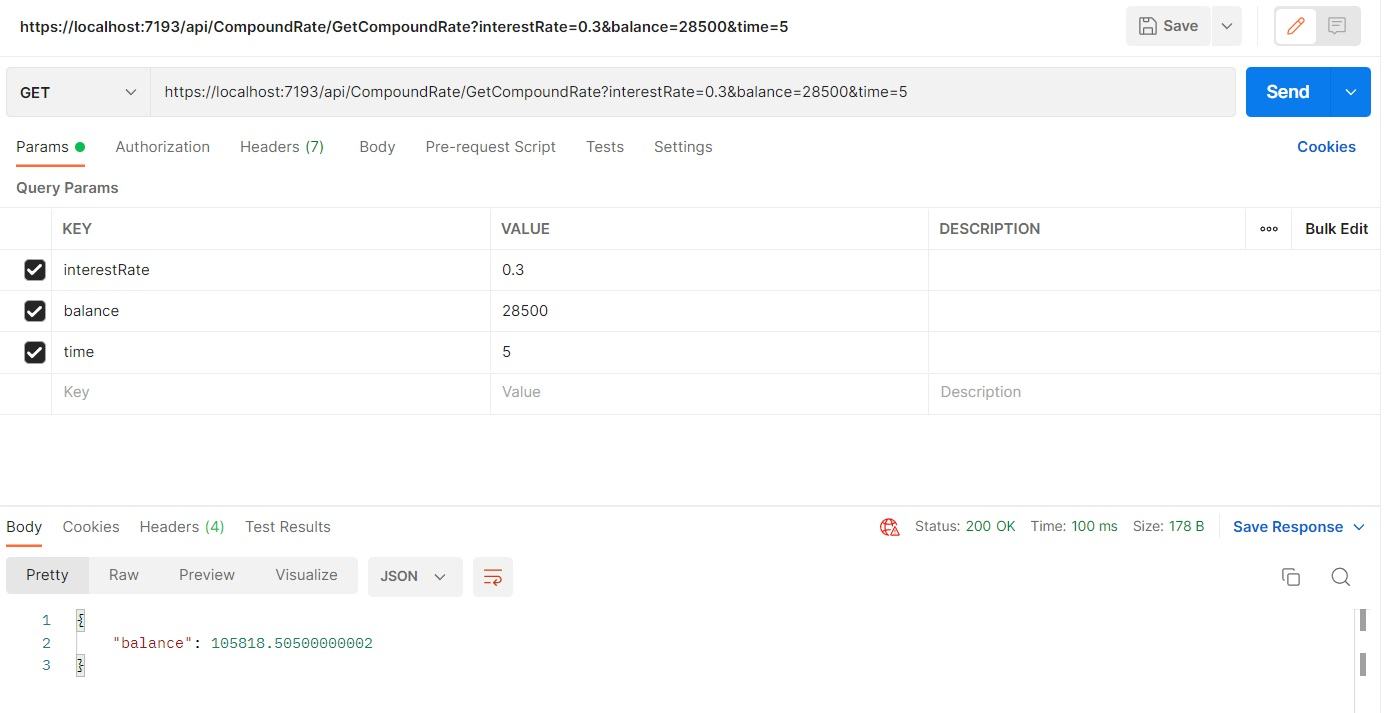
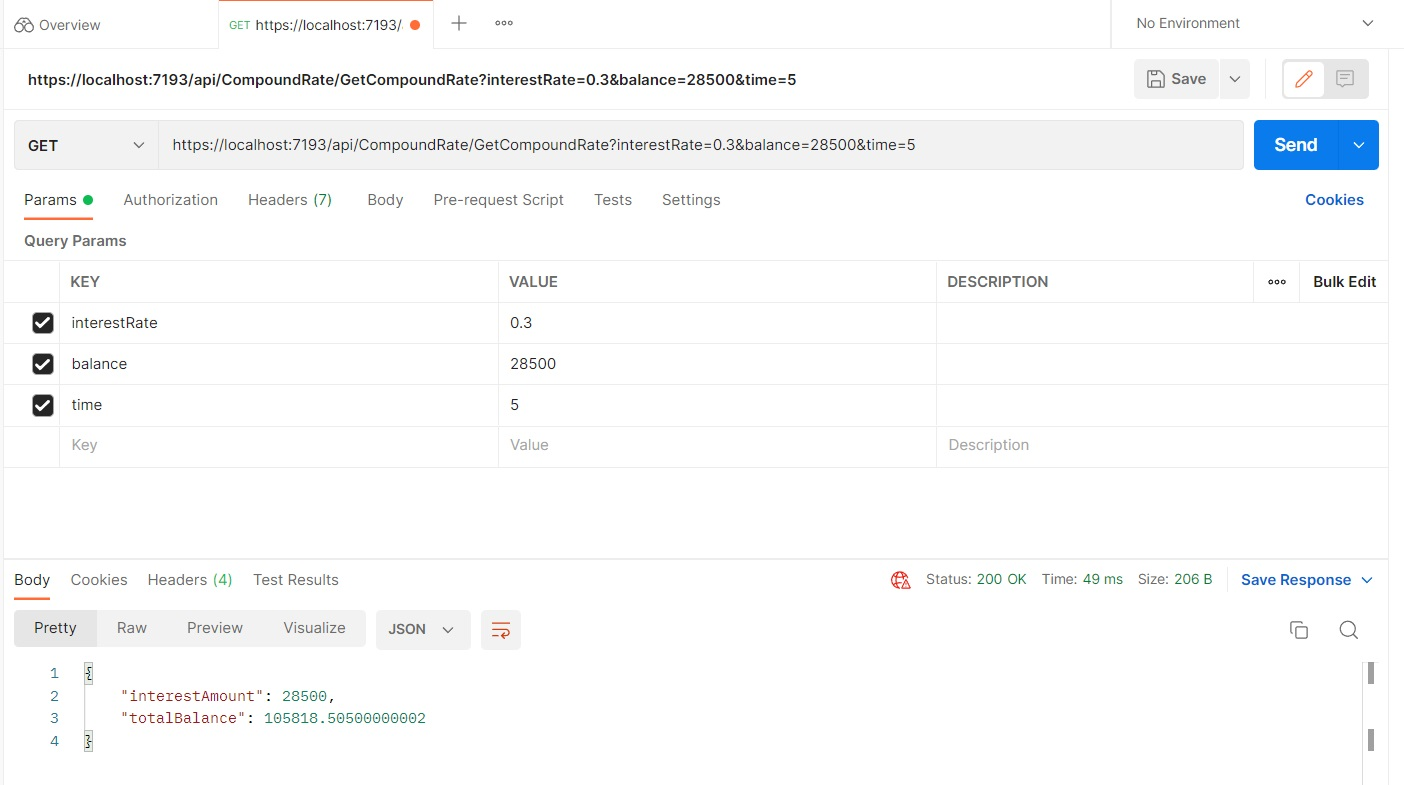
result donus tipi degistirildi

diff --git a/Dogukan_Kisecuklu_Hafta_1/Controllers/CompoundRateController.cs b/Dogukan_Kisecuklu_Hafta_1/Controllers/CompoundRateController.cs
@@ -20,7 +20,8 @@ namespace Dogukan_Kisecuklu_Hafta_1.Controllers
     }
     public class Result // Sonucu göstermek için result classı oluşturuldu
     {
-      public double balance { get; set; } // Ana para 
+      public double InterestAmount { get; set; } // Faizden önce ana para
+      public double TotalBalance { get; set; } // Faizden sonra ana para 
     }
     [Route("api/[controller]")]
     [ApiController]
@@ -37,7 +38,8 @@ namespace Dogukan_Kisecuklu_Hafta_1.Controllers
         public ActionResult<Result> Get([FromQuery] Interest input)// Interest tipinde input alınarak para,faiz,zaman alındı
         {
             Result result = new(); // Yeni bir result oluşturuldu
-            result.balance = input.balance * Math.Pow((1 + input.interestRate), input.time); // Formül uygulanarak bileşik faiz hesaplandı
+            result.TotalBalance = input.balance * Math.Pow((1 + input.interestRate), input.time); // Formül uygulanarak bileşik faiz hesaplandı
+            result.InterestAmount = input.balance;
             return result; // Response'da faiz sonucu döndürüldü.
         }
         
